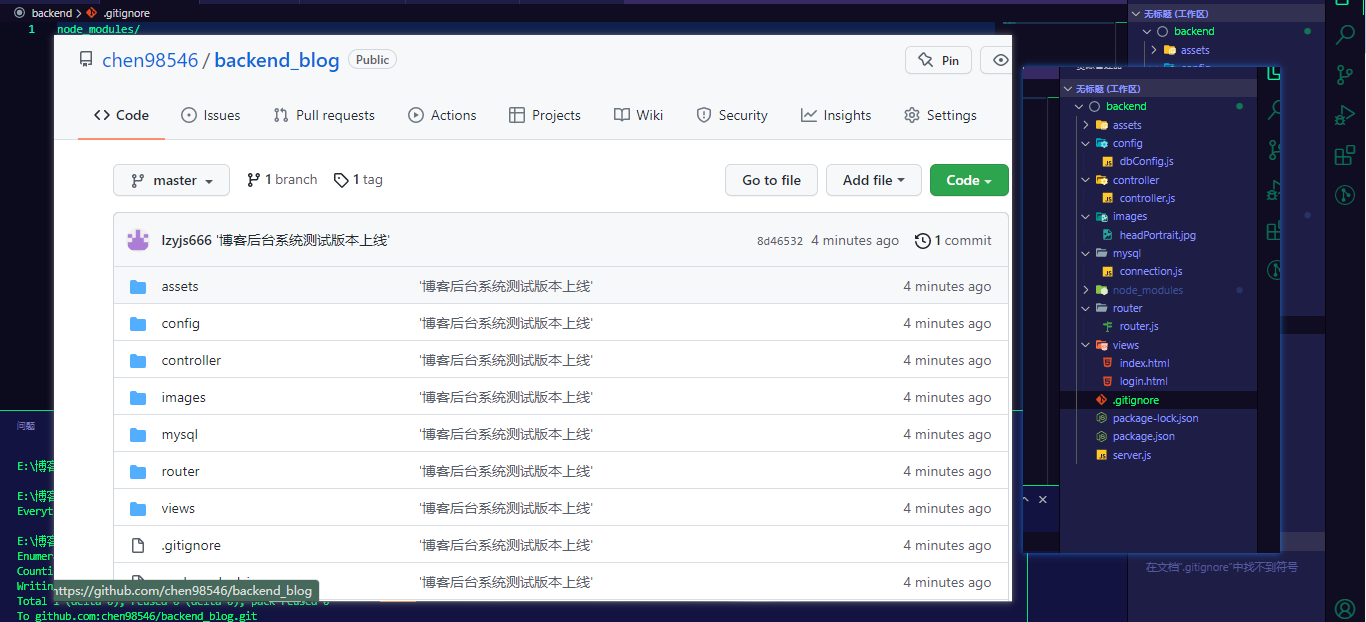
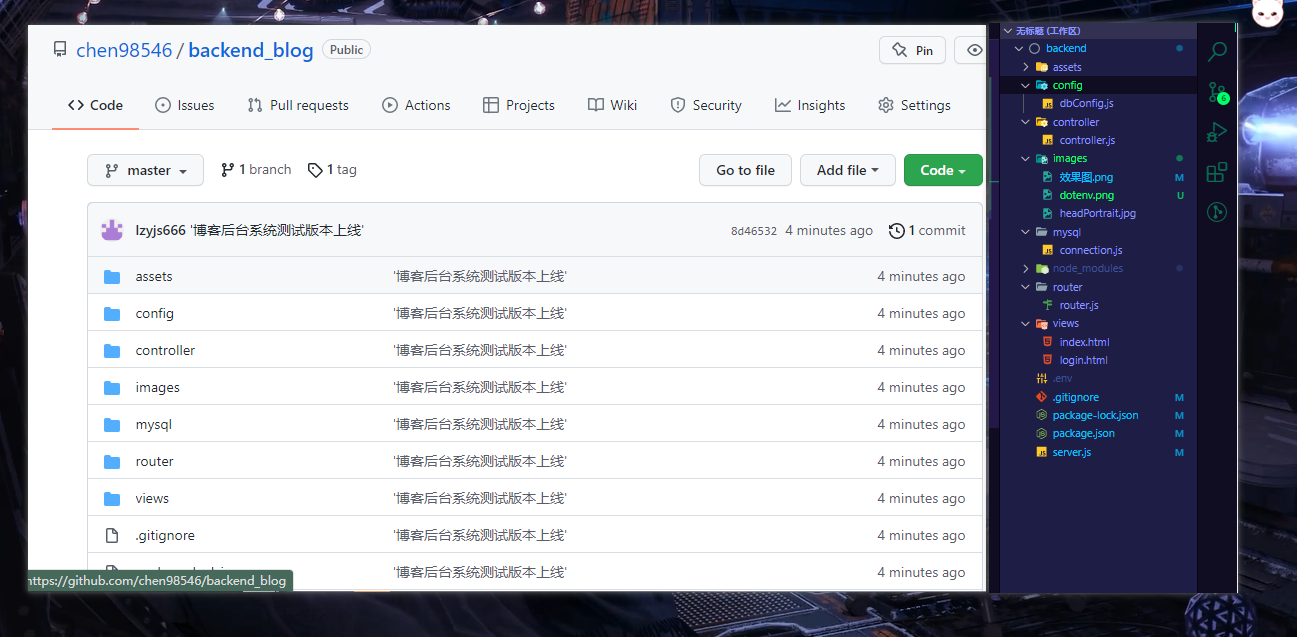
chore

diff --git a/server.js b/server.js
@@ -1,7 +1,21 @@
 let express = require('express');
 let path = require('path');
 let router = require('./router/router.js');
-let app = express();
+
+// dotenv是一个将环境变量从.env文件加载到process.env中的模块
+let dotenv = require('dotenv').config({
+    path: '.env'
+});
+
+// dotenv.parsed 将.env文件中的环境变量解析成一个对象
+console.log(dotenv.parsed);
+
+// process.env.SECRET_KEY 将.env文件中的环境变量加载到process.env中
+console.log(process.env.SECRET_KEY);
+console.log(process.env.S3_BUCKET);
+
+// s3.getBucketCors({Bucket: process.env.S3_BUCKET}, function(err, data) {})
+let app = express(); 
 
 app.use(express.static(path.join(__dirname, 'assets')));
 app.use(express.static(path.join(__dirname, 'images')));
